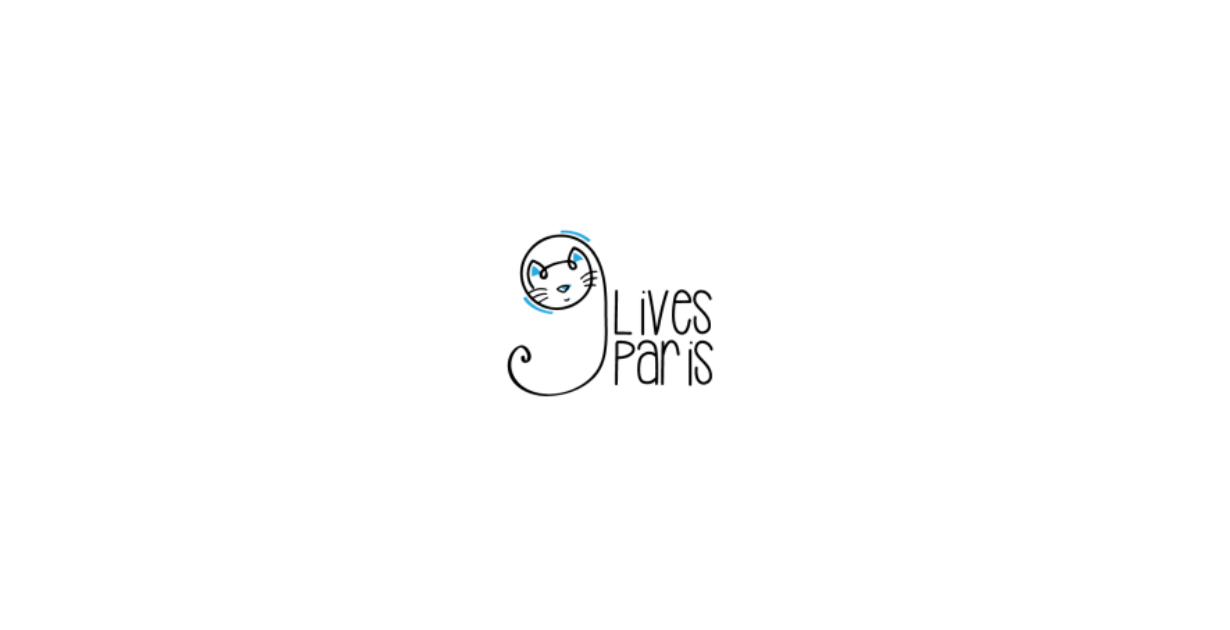
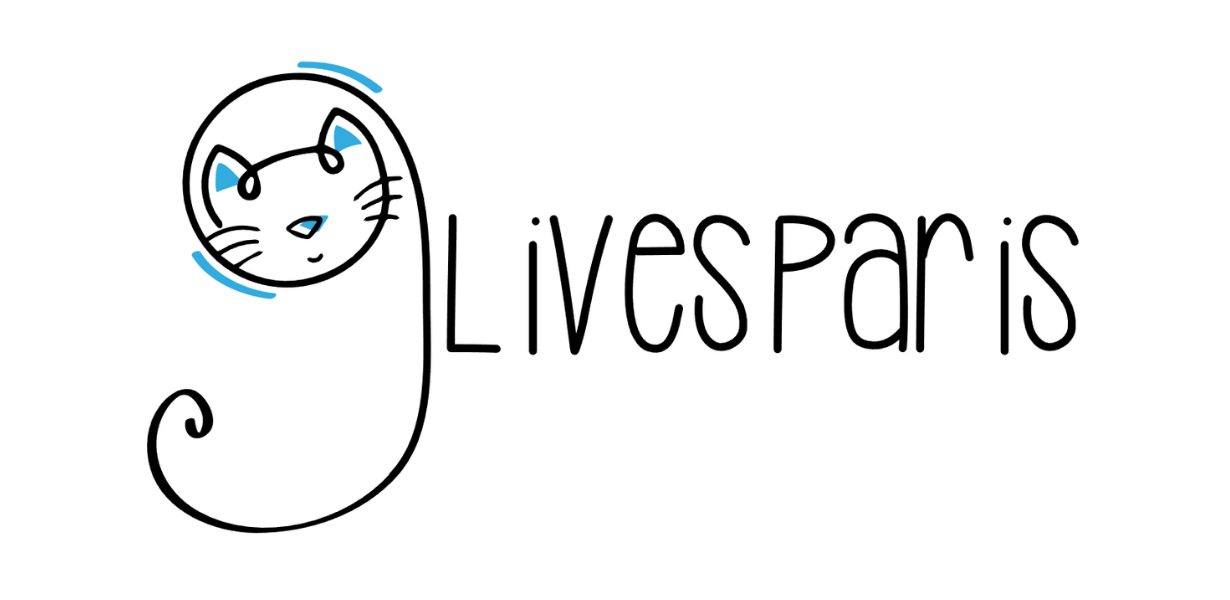
Tighten design

Changed region(s): [[0.1236, 0.09, 0.8959, 0.72], [0.0927, 0.63, 0.3089, 0.9], [0.3089, 0.72, 0.3398, 0.81]]

diff --git a/components/Logo.tsx b/components/Logo.tsx
@@ -1,0 +1,41 @@
+export default function Logo({ height = 45 }: { height?: number }) {
+    const width = Math.round(height * (194 / 148));
+  
+    return (
+      <svg
+        xmlns="http://www.w3.org/2000/svg"
+        viewBox="0 -0.28 194 148.28"
+        width={width}
+        height={height}
+        aria-label="Nine Lives Paris"
+        role="img"
+      >
+        <g id="Calque 1">
+          <g>
+            <path fill="#000" d="m92.8 48.6q0-0.5 0.3-0.9 0.4-0.3 0.9-0.3 0.5 0 0.8 0.3 0.4 0.4 0.4 0.9 0 6.6-0.3 19.6-0.2 12.9-0.2 19.1 8.3 0 12.9 0.2 0.5 0 0.8 0.4 0.4 0.4 0.4 0.9 0 0.5-0.5 0.8-0.3 0.3-0.8 0.3-4.5-0.1-13.9-0.1 0 0-0.1 0 0 0-0.1 0-0.4 0-0.8-0.4-0.4-0.4-0.4-0.9 0-6.6 0.3-19.9 0.3-13.4 0.3-20zm24.6 40.8v-32.6q0-0.5 0.4-0.8 0.4-0.4 0.9-0.4 0.5 0 0.8 0.4 0.4 0.3 0.4 0.8v32.6q0 0.5-0.4 0.8-0.3 0.4-0.8 0.4-0.5 0-0.9-0.4-0.4-0.3-0.4-0.8zm3-40.7q0.3 0.4 0.3 0.9 0 0.4-0.3 0.8-0.4 0.4-0.9 0.4-0.5 0-0.8-0.4-0.4-0.4-0.4-0.8 0-0.5 0.4-0.9 0.3-0.4 0.8-0.4 0.5 0 0.9 0.4zm3.4 0.4q0-0.5 0.2-0.9 0.3-0.4 0.7-0.5 0.6-0.1 1 0.1 0.4 0.3 0.6 0.8 1.1 4.9 2.1 11.2 1.1 6.3 1.5 9.6 0.5 3.2 1.6 11.3 0.1 0.8 0.4 3.4 0.7-2.5 1-3.9 3.8-20.1 7.9-31.7 0.2-0.5 0.7-0.7 0.4-0.3 0.9-0.1 0.5 0.2 0.7 0.7 0.2 0.4 0.1 0.9-4.1 11.5-7.9 31.4-0.4 1.9-1.3 5.2-0.5 1.7-0.8 2.8-0.2 0.6-0.4 0.9-0.1 0.3-0.2 0.5-0.5 0.5-1.1 0.5-0.6 0-1-0.4-0.1-0.1-0.1-0.3-0.1-0.1-0.2-0.3 0-0.1 0-0.3-0.1-0.2-0.1-0.7-0.2-0.8-0.4-2.4 0-0.6-0.2-1.8-0.1-1.1-0.2-2-0.2-0.8-0.2-1.4-0.1-0.7-0.3-2-2.7-20-5-29.9zm39 8.3q0-1.3-0.7-2.8-0.1-0.1-0.2-0.3-1.4-2.7-3.2-3.8-1.7-1.1-3.2-0.7-1.6 0.3-2.9 2-1.3 1.7-1.8 4.6-0.1 0.6-0.2 1.1 0.1 0 0.3 0 2.1 0 6.1 0 4.1-0.1 5.8-0.1zm2.5 0.9q0 0.2 0 0.3 0 0.5-0.4 0.9-0.3 0.4-0.8 0.4-2.2 0-6.7 0-4.3 0.1-6.5 0.1-0.3 0-0.7-0.2-2.1 15.3 0.8 23.1 0.6 1.5 1.6 2.7 1 1.2 2.1 1.6 2 0.6 3.4-0.2 1.2-0.7 2.1-2.6 0.4-0.7 0.6-1.5 0.3-0.9 0.5-1.9 0.3-1 0.4-1.7 0.2-0.6 0.4-1.8 0.2-1.2 0.3-1.5 0.1-0.5 0.5-0.8 0.5-0.3 0.9-0.1 0.5 0 0.8 0.4 0.3 0.5 0.2 1 0 0.3-0.3 1.4-0.2 1.2-0.4 1.9-0.1 0.7-0.4 1.8-0.2 1.1-0.6 2.1-0.3 0.9-0.7 1.7-1.2 2.6-3.1 3.7-2.3 1.4-5.3 0.4-1.9-0.5-3.2-2.2-1.3-1.8-2.1-3.6-3.5-9.3-0.3-27.7 0.6-3.5 2.3-5.8 1.8-2.3 4.3-2.8 2.1-0.5 4.2 0.6 2.1 1.1 3.8 3.4 0.4 0.2 0.6 0.6 1.8 3.5 1.7 6.3zm20.1-2.8q0.1 0.5-0.2 0.9-0.2 0.5-0.7 0.6-0.5 0.1-0.9-0.1-0.4-0.3-0.6-0.8-0.6-2.5-2.6-4.1-2-1.7-4.2-2-2.2-0.2-3.8 1.1-1.6 1.3-1.9 4.4-0.2 1.4 0.1 2.7 0.4 1.2 1.4 2.6 1 1.4 1.8 2.3 0.9 0.9 2.6 2.7 0.5 0.5 0.8 0.8 1.8 1.9 2.9 3.3 1.1 1.3 2.3 3.4 1.3 2 1.7 4.3 0.6 2.3 0.4 5-0.2 1.9-1.5 3.5-1.2 1.6-3 2.4-1.7 1-3.8 0.9-2.1-0.1-3.7-1.4-5-4.1-4-14.7 0.1-0.4 0.5-0.7 0.4-0.4 0.9-0.4 0.5 0.1 0.8 0.5 0.3 0.4 0.3 0.9-0.9 9.2 3.1 12.4 2 1.7 4.9 0.3 1.3-0.6 2.1-1.6 0.8-1.1 1-2.4 0.3-4.1-1.4-7.2-1.8-3.2-5.3-6.8-0.3-0.3-0.9-0.9-1.7-1.7-2.6-2.7-0.9-1.1-2-2.7-1.2-1.7-1.6-3.4-0.4-1.6-0.3-3.4 0.5-4.1 2.8-6 2.5-2 5.7-1.5 2.9 0.3 5.4 2.5 2.6 2.1 3.5 5.3z"/>
+            <g>
+              <g>
+                <path fill="#32abdf" d="m29.61 37.82c0 0-6.76 2.01-7.81 2.74-1.06 0.74-0.85-6.76 0-8.44 0.84-1.69 4.43 1.68 7.81 5.7z"/>
+                <path fill="#32abdf" d="m66.17 25.81c0 0-5.99 0.5-8.03 3.5-0.62-3.74-1.08-6.54 0-9.35 3.35 1.17 7.09 3.98 8.03 5.85z"/>
+                <path fill="#32abdf" d="m46.92 50.82c2.71-2.73 5.52-3.25 8.53-3.05q0.19 0.2 0.37 0.4c-0.98 1.49-1.94 3.01-2.96 4.48-0.11 0.17-0.55 0.23-0.78 0.15-1.63-0.6-3.25-1.24-5.16-1.98z"/>
+                <path fill="#000" d="m77.63 42.64c0.39-0.03 0.76-0.45 1.13-0.69-0.37-0.2-0.73-0.55-1.11-0.57-1.01-0.04-2.03 0.06-3.07 0.1-0.12-1.15-0.18-2.14-0.33-3.12-0.12-0.78 0.2-1.13 0.94-1.19 0.85-0.08 1.72-0.11 2.57-0.26 0.35-0.06 0.66-0.38 0.98-0.58-0.34-0.22-0.68-0.62-1.03-0.62-1.23-0.03-2.46 0.07-3.76 0.12q-0.09-0.38-0.19-0.82c-0.92-4.14-2.18-8.17-4.48-11.78-2.5-3.94-5.89-6.83-10.29-8.49-1.07-0.4-1.76-0.2-2.4 0.77-1.97 2.98-3.52 6.14-3.97 9.72-0.11 0.93-0.52 1.09-1.38 1.25-3.55 0.64-7.14 1.2-10.58 2.24-2.85 0.87-5.51 2.38-8.37 3.65-2.44-2.89-5.72-4.8-9.33-6.23-1.19-0.46-1.91-0.19-2.61 0.84-3.6 5.3-4.48 11.03-2.73 17.15 0.74 2.59 2.04 4.93 3.83 6.97 0.49 0.56 1.13 0.89 1.64 0.27 0.26-0.32 0.08-1.06-0.01-1.59-0.05-0.26-0.35-0.47-0.54-0.71-4.51-5.63-4.92-13.93-1.03-20.01 0.45-0.71 0.87-0.99 1.65-0.55 1.32 0.73 2.74 1.31 3.97 2.17 1.31 0.9 2.45 2.05 3.74 3.17-0.6 0.55-0.96 0.86-1.29 1.19-1.16 1.19-1.85 2.58-1.79 4.28 0.07 2.19 1.78 3.86 3.89 3.8 2.08-0.05 3.5-1.58 3.34-3.92-0.09-1.34-0.53-2.69-0.96-3.98-0.22-0.66-0.21-1.01 0.41-1.37 5.21-3.06 10.82-4.86 16.86-5.36 0.84-0.07 1.21 0.14 1.34 1.06 0.24 1.74 0.87 3.34 2.19 4.58 1.08 1.02 2.37 1.21 3.72 0.69 1.29-0.49 2.33-1.89 2.07-3.26-0.22-1.16-0.71-2.53-1.55-3.24-1.19-1-2.82-1.48-4.41-2.26 0 0.03-0.05-0.23-0.02-0.47 0.43-3.01 1.6-5.72 3.3-8.2 0.18-0.26 0.97-0.4 1.25-0.23 1.7 1.02 3.49 1.96 4.94 3.26 4.59 4.13 6.38 9.71 7.58 15.52 0.06 0.29-0.32 0.83-0.63 1.01-0.86 0.49-1.88 0.72-2.67 1.29-1.57 1.12-3.06 2.36-4.49 3.66-0.33 0.29-0.29 0.99-0.42 1.51 0.45-0.21 0.92-0.39 1.34-0.65 0.25-0.15 0.4-0.45 0.62-0.66 1.85-1.83 3.96-3.24 6.73-4.02 0.04 1.03 0.02 1.89 0.13 2.73 0.12 0.91-0.28 1.21-1.1 1.55-1.74 0.72-3.4 1.64-5.05 2.56-0.24 0.13-0.24 0.7-0.34 1.06 0.35 0 0.75 0.11 1.04-0.02 0.58-0.27 1.07-0.73 1.65-1.01 1.17-0.56 2.37-1.05 3.89-1.72-0.19 1.32-0.35 2.2-0.44 3.09-0.09 0.87-0.53 1.22-1.41 1.32q-1.54 0.18-3.02 0.65c-0.39 0.13-0.65 0.62-0.97 0.95 0.45 0.09 0.92 0.3 1.35 0.24 1.02-0.15 2.02-0.42 3.03-0.64q0.1 0.22 0.21 0.45c-3.8 9.09-10.74 14.68-20.09 17.38-7.92 2.29-15.53 1.32-22.93-2.81 1.99-1.88 4.06-3.05 6.36-3.87 0.47-0.17 0.81-0.69 1.22-1.05-0.57-0.05-1.26-0.33-1.68-0.11-2.16 1.14-4.24 2.42-6.36 3.62-0.36 0.2-0.95 0.51-1.17 0.37-1.27-0.85-2.46-1.81-3.77-2.8 0.41-0.32 0.6-0.49 0.82-0.62 2.98-1.89 6.21-2.94 9.76-2.98 0.54-0.01 1.29 0.08 1.1-0.79-0.06-0.24-0.74-0.48-1.14-0.48-3.86 0-7.37 1.18-10.62 3.23-0.33 0.21-1.02 0.4-1.19 0.24-0.9-0.88-1.69-1.88-2.59-2.93 4.61-3.05 9.32-4.31 14.58-3.1 0.45 0.11 0.97-0.11 1.46-0.18-0.4-0.36-0.75-0.93-1.2-1.02-1.52-0.28-3.07-0.58-4.6-0.54-3.98 0.09-7.59 1.43-10.98 3.75-0.3-0.47-0.55-0.81-0.77-1.18-3.85-6.59-5.17-13.63-3.72-21.16 2.75-14.23 16.04-25.51 30.98-26.17 10.16-0.45 18.87 3.02 26.02 10.24q2.4 2.42 4.18 5.21 0.61-0.88 1.57-1.42c-6.41-9.79-17.47-16.25-29.64-16.16-14.01 0.1-24.72 6.4-31.74 18.47-8.63 14.82-3.19 34.48 11.64 43.06 11.53 6.67 25.92 5.7 36.5-2.43 4.14-3.19 7.41-7.08 9.46-11.92 1.09-2.58 1.04-2.57 3.87-2.14 0.35 0.05 0.76-0.26 1.14-0.4-0.32-0.28-0.59-0.72-0.96-0.82-0.85-0.23-1.74-0.29-2.68-0.43 0.08-0.58 0.15-1.05 0.21-1.51 0.39-3.02 0.39-3 3.4-3.2zm-45.97-1.76c-0.42 0.29-0.88-0.05-1.25-1.57-0.31-1.3 0.44-2.52 1.4-3.36q0.25-0.01 0.5-0.02c1.18-0.04 0.37 4.26-0.65 4.95zm23.23-12.21c1.41 0.18 2.66 0.66 3.46 1.99 0.46 0.76 0.36 1.5-0.37 2.05-0.75 0.57-1.48 0.27-1.88-0.4-0.63-1.06-1.09-2.23-1.62-3.35q0.21-0.14 0.41-0.29z"/>
+                <path fill="#000" d="m50.39 47.87c3.78-0.15 4.33 0.59 2.73 3.45-0.72 1.28-1.86 2.33-2.88 3.41-0.24 0.25-0.79 0.34-1.18 0.3q-3.2-0.38-5.74-2.4c-0.71-0.57-0.73-1.05-0.06-1.66 2.16-1.96 4.74-2.86 7.13-3.1zm-6.2 4.15c1.72 0.62 3.18 1.16 4.65 1.66 0.21 0.07 0.61 0.02 0.71-0.13 0.92-1.24 1.8-2.52 2.69-3.79q-0.17-0.17-0.33-0.33c-2.73-0.16-5.27 0.29-7.72 2.59z"/>
+                <path fill="#000" d="m51.15 62.31c-0.32-0.1-0.95-0.24-1.51-0.52-0.19-0.09-0.29-0.57-0.25-0.85 0.02-0.13 0.54-0.34 0.72-0.26 1.33 0.56 2.32 0.28 3.05-0.98 0.1-0.16 0.67-0.26 0.75-0.16 0.18 0.22 0.32 0.63 0.23 0.86-0.49 1.16-1.39 1.82-2.99 1.91z"/>
+              </g>
+              <path fill="none" stroke="#000" strokeMiterlimit={10} strokeWidth={2.3} d="m74.07 18.64c11.56 15.3 11.93 36.29 11.89 54.63-0.03 17.61 2.58 41.12-10.79 54.79"/>
+              <g>
+                <path fill="#000" d="m75.12 126.65c-13.57 15.65-40.3 22.37-58.93 12.19-8.59-4.69-14.39-13.65-13.1-23.61 0.54-4.19 2.82-8.99 6.21-11.58 3.6-2.75 6.61 2.19 7.55 4.83 0.63 1.78 0.45 3.65-0.29 5.36-1.06 2.5-1.85-3.09-1.85-3.07 0.17-1.24-2.76-0.74-2.91 0.32-0.57 4.18 2.91 6.66 6.44 4.1 4.65-3.38 0.72-11.19-3.06-13.35-4.2-2.4-8.77 1.18-11.16 4.34-4.17 5.52-4.9 12.92-2.99 19.39 3.9 13.28 19.68 19.68 32.33 19.72 16.27 0.06 33.25-5.54 44.11-18.07 1.14-1.32-1.67-1.36-2.35-0.57z"/>
+              </g>
+              <g>
+                <path fill="#32abdf" d="m13.87 60.22c4.73 7.86 15.25 12.28 23.94 13.16 1.2 0.12 3.04-1.58 1.09-1.78-8.11-0.82-17.94-5.24-22.35-12.55-0.55-0.91-3.36 0.06-2.68 1.17z"/>
+              </g>
+              <g>
+                <path fill="#32abdf" d="m47.42 2.4c8.62-0.08 15.69 2.1 22.41 7.55 0.89 0.73 3.49-0.56 2.26-1.57-7.32-5.94-15.03-7.99-24.36-7.91-1.58 0.02-2.28 1.94-0.31 1.93z"/>
+              </g>
+            </g>
+            <path fill="#000" d="m95.5 114.7q6.1-0.2 10-2.4 3.4-2 3.6-4.5 0.2-2.4-2.9-4-3.7-1.9-10.6-1.6 0 5.3-0.1 12.5zm0 2.4q-0.4 18.1-0.4 23.7 0 0.5-0.4 0.9-0.3 0.4-0.8 0.4-0.5 0-0.9-0.4-0.4-0.4-0.4-0.9 0-6.4 0.3-19.4 0.3-13 0.3-19.5 0-0.7 0.6-1 0.2-1 1.2-1.1 7.8-0.5 12.3 1.8 2.2 1.2 3.3 2.8 1.1 1.7 0.9 3.6-0.3 3.8-4.8 6.4-4.5 2.6-11.2 2.7zm35.6-2.1q-2.7-3-6.7-2.3-1.9 0.2-3.7 1.4-1.7 1.2-2.5 2.9-0.6 1.4-1.1 4.3-0.4 2.8-0.4 5.9 0.1 7.4 2.2 9.7 1.3 1.4 4.4 1.6 4.3 0.1 8-4.1 0.1 0 0.1-0.1 0.1-5.8 0-11.7 0-4.3-0.3-7.6zm-14.3-7.7q0 0.5-0.3 0.8-0.4 0.4-0.9 0.4-0.5 0-0.8-0.4-0.4-0.3-0.4-0.8 0-3.4 2.2-5.6 2.2-2.1 5.3-2.5 3.1-0.4 6 1.1 2.9 1.4 4.2 4.6 0.8 1.8 1.3 7 0.3 4.4 0.5 10.6 0.2 12.2-0.3 18.2-0.1 0.4-0.5 0.8-0.4 0.3-0.9 0.3-0.5-0.1-0.8-0.5-0.3-0.4-0.3-0.9 0.1-0.9 0.2-2.5-3.7 3.2-8.1 3-4.1-0.2-6.1-2.3-2.8-3-2.8-11.3-0.1-7.6 1.7-11.4 1.1-2.2 3.3-3.7 2.3-1.6 4.7-2 3.8-0.5 6.9 1.5-0.4-4.5-1-5.9-1-2.4-3.2-3.4-2.1-1.1-4.5-0.8-2.3 0.3-3.8 1.8-1.6 1.5-1.6 3.9zm20.2-6.2q0-0.5 0.3-0.8 0.4-0.4 0.9-0.4 0.5 0 0.8 0.4 0.4 0.3 0.4 0.8 0 2.2 0 4.4 0.7-1.4 1.4-2.6 1.8-2.7 3.8-3.5 2.7-1.1 5.2 1.2 2.2 1.8 3.2 5.8 0.4 1.5 1.1 6 0.1 0.5-0.3 0.9-0.3 0.5-0.7 0.5-0.5 0.1-1-0.2-0.4-0.3-0.4-0.8-0.7-4.4-1.1-5.8-0.8-3.2-2.4-4.6-1.4-1.3-2.8-0.7-1.2 0.5-2.5 2.5-1.3 1.8-2.1 4.2-0.8 2.4-1 3.8 0 0.5-0.5 0.9-0.4 24.4-0.4 27.6 0 0.4-0.4 0.8-0.3 0.4-0.8 0.4-0.5 0-0.9-0.4-0.3-0.4-0.3-0.8 0-6.6 0.2-19.8 0.3-13.2 0.3-19.8zm26.4 40.3v-32.6q0-0.5 0.4-0.8 0.4-0.4 0.9-0.4 0.5 0 0.8 0.4 0.4 0.3 0.4 0.8v32.6q0 0.5-0.4 0.8-0.3 0.4-0.8 0.4-0.5 0-0.9-0.4-0.4-0.3-0.4-0.8zm3-40.7q0.3 0.4 0.3 0.9 0 0.4-0.3 0.8-0.4 0.4-0.9 0.4-0.5 0-0.8-0.4-0.4-0.4-0.4-0.8 0-0.5 0.4-0.9 0.3-0.4 0.8-0.4 0.5 0 0.9 0.4zm20 6.8q0.1 0.5-0.2 1-0.2 0.4-0.7 0.5-0.5 0.1-0.9-0.1-0.4-0.3-0.6-0.8-0.6-2.5-2.6-4.1-2-1.7-4.2-2-2.2-0.2-3.8 1.1-1.6 1.3-1.9 4.4-0.2 1.4 0.1 2.7 0.4 1.2 1.4 2.6 1 1.4 1.8 2.3 0.9 0.9 2.6 2.7 0.5 0.5 0.8 0.8 1.8 1.9 2.9 3.3 1.1 1.3 2.3 3.4 1.3 2 1.7 4.3 0.6 2.3 0.4 5-0.2 1.9-1.5 3.5-1.2 1.6-3 2.4-1.7 1-3.8 0.9-2.1-0.1-3.7-1.4-5-4.1-4-14.7 0.1-0.4 0.5-0.7 0.4-0.4 0.9-0.4 0.5 0.1 0.8 0.5 0.3 0.4 0.3 0.9-0.9 9.2 3.1 12.4 2 1.7 4.9 0.3 1.3-0.6 2.1-1.6 0.8-1.1 1-2.4 0.3-4.1-1.4-7.2-1.8-3.2-5.3-6.8-0.3-0.3-0.9-0.9-1.7-1.7-2.6-2.7-0.9-1.1-2-2.7-1.2-1.7-1.6-3.4-0.4-1.6-0.3-3.4 0.5-4.1 2.8-6 2.5-2 5.7-1.5 2.9 0.3 5.4 2.5 2.6 2.1 3.5 5.3z"/>
+          </g>
+        </g>
+      </svg>
+    );
+  }

diff --git a/app/globals.css b/app/globals.css
@@ -10,7 +10,7 @@ body {
   line-height: 1.5;
 }
 
-h1, h2, .font-casual {
+h1, h2, h3, .font-casual {
   font-family: var(--font-hello-casual), cursive;
 }
 
@@ -164,7 +164,7 @@ a {
 
 .hero {
   position: relative;
-  height: 600px;
+  height: 500px;
   display: flex;
   align-items: center;
   background-size: cover;
@@ -405,7 +405,7 @@ h2 {
 }
 
 .card h3 {
-  font-size: 1.25rem;
+  font-size: 1.50rem;
   font-weight: 600;
   margin-bottom: 0.75rem;
   color: #1f2937;
@@ -423,6 +423,16 @@ h2 {
   border-radius: 6px;
   box-shadow: 0 1px 4px rgba(0,0,0,0.06);
   margin-bottom: 0.5rem;
+}
+
+.accordion:hover {
+  background: rgb(191, 152, 235);
+  box-shadow: 0 1px 4px rgba(233, 128, 233, 0.06);
+  margin-bottom: 0.5rem;
+}
+
+.accordion-content {
+  background: white;
 }
 
 .accordion summary {
@@ -1012,15 +1022,16 @@ main img:hover {
 .nav-inner {
   max-width: 1400px;
   margin: 0 auto;
-  padding: 0 2rem;
+  padding: 3rem 2rem;
   display: flex;
   justify-content: space-between;
   align-items: center;
   height: 70px;
 }
 
-.nav-logo img {
-  height: 72px;
+.nav-logo img,
+.nav-logo svg {
+  height: 75px;
   width: auto;
 }
 
@@ -1101,7 +1112,7 @@ main img:hover {
 }
 
 .related-actions .card h3 {
-  font-size: 1.05rem;
+  font-size: 1.55rem;
   margin-bottom: 0.4rem;
 }
 
@@ -1116,18 +1127,18 @@ main img:hover {
 }
 
 .related-actions h2 {
-  font-size: 1.5rem;
+  font-size: 1.75rem;
 }
 
 /* Footer */
 .footer {
   background: #111;
   color: white;
-  padding: 4rem 2rem 2rem;
+  padding: 1rem 1rem;
 }
 
 .footer h3 {
-  font-size: 1.25rem;
+  font-size: 1.90rem;
   margin-bottom: 1rem;
   font-weight: 500;
 }
@@ -1136,7 +1147,7 @@ main img:hover {
   display: grid;
   grid-template-columns: repeat(auto-fit, minmax(250px, 1fr));
   gap: 3rem;
-  margin-bottom: 3rem;
+  margin-bottom: 2rem;
 }
 
 .footer-links {
@@ -1171,7 +1182,7 @@ main img:hover {
 
 .footer-bottom {
   border-top: 1px solid #374151;
-  padding-top: 2rem;
+  padding-top: 1rem;
   text-align: center;
   color: #6b7280;
   font-size: 0.875rem;
@@ -1181,7 +1192,7 @@ main img:hover {
   display: flex;
   justify-content: center;
   gap: 1.5rem;
-  margin-bottom: 0.75rem;
+  margin-bottom: 0.45rem;
   flex-wrap: wrap;
 }
 
@@ -1197,7 +1208,7 @@ main img:hover {
 
 .footer-about {
   color: #9ca3af;
-  line-height: 1.6;
+  line-height: 1.5;
 }
 
 /* ===== MOBILE ===== */
@@ -1313,6 +1324,11 @@ main img:hover {
     float: none;
     width: 100%;
     margin: 0 0 1rem 0;
+  }
+
+  .nav-logo img,
+  .nav-logo svg {
+    height: 60px;
   }
 
   .nav-desktop {

diff --git a/app/donner/page.tsx b/app/donner/page.tsx
@@ -22,11 +22,8 @@ export default function DonnerPage() {
           <div className="float-img-right" style={{ width: '45%', borderRadius: '8px', overflow: 'hidden' }}>
             <img src="/images/wiskey.jpg" alt="Wiskey, un de nos protégés" />
           </div>
-
-          <div className="card-icon" style={{ fontSize: '4rem' }}>💝</div>
-
           <p className="text-large mb-md">
-            <strong>Sauver des vies a un coût.</strong>
+            <strong>💝 Sauver des vies a un coût.</strong>
           </p>
 
           <p className="text-body">
@@ -59,14 +56,12 @@ export default function DonnerPage() {
       {/* Material Donation */}
       <section className="section section-gray">
         <div className="container-mid">
-          <div className="float-img-left" style={{ width: '45%', borderRadius: '8px', overflow: 'hidden' }}>
+          <div className="float-img-left" style={{ height: '40%', borderRadius: '8px', overflow: 'hidden' }}>
             <img src="/images/salomon.webp" alt="Salomon, un de nos protégés" />
           </div>
 
-          <div className="card-icon" style={{ fontSize: '4rem' }}>🎁</div>
-
           <p className="text-large mb-md">
-            <strong>Nous avons sans cesse besoin de matériel.</strong>
+            <strong>🎁 Nous avons sans cesse besoin de matériel.</strong>
           </p>
 
           <p className="text-body">

diff --git a/components/Navigation.tsx b/components/Navigation.tsx
@@ -3,6 +3,8 @@ import Link from 'next/link';
 import Image from 'next/image';
 import { useState } from 'react';
 import { usePathname } from 'next/navigation';
+import Logo from '@/components/Logo';
+
 
 export default function Navigation() {
   const [mobileOpen, setMobileOpen] = useState(false);
@@ -28,7 +30,7 @@ export default function Navigation() {
     <nav className="nav">
       <div className="nav-inner">
         <Link href="/" onClick={close} className="nav-logo" >
-          <Image src="/logo-nine-lives-paris.png" alt="Nine Lives Paris" width={140} height={45} />
+        <Logo />
         </Link>
 
         {/* Desktop */}
